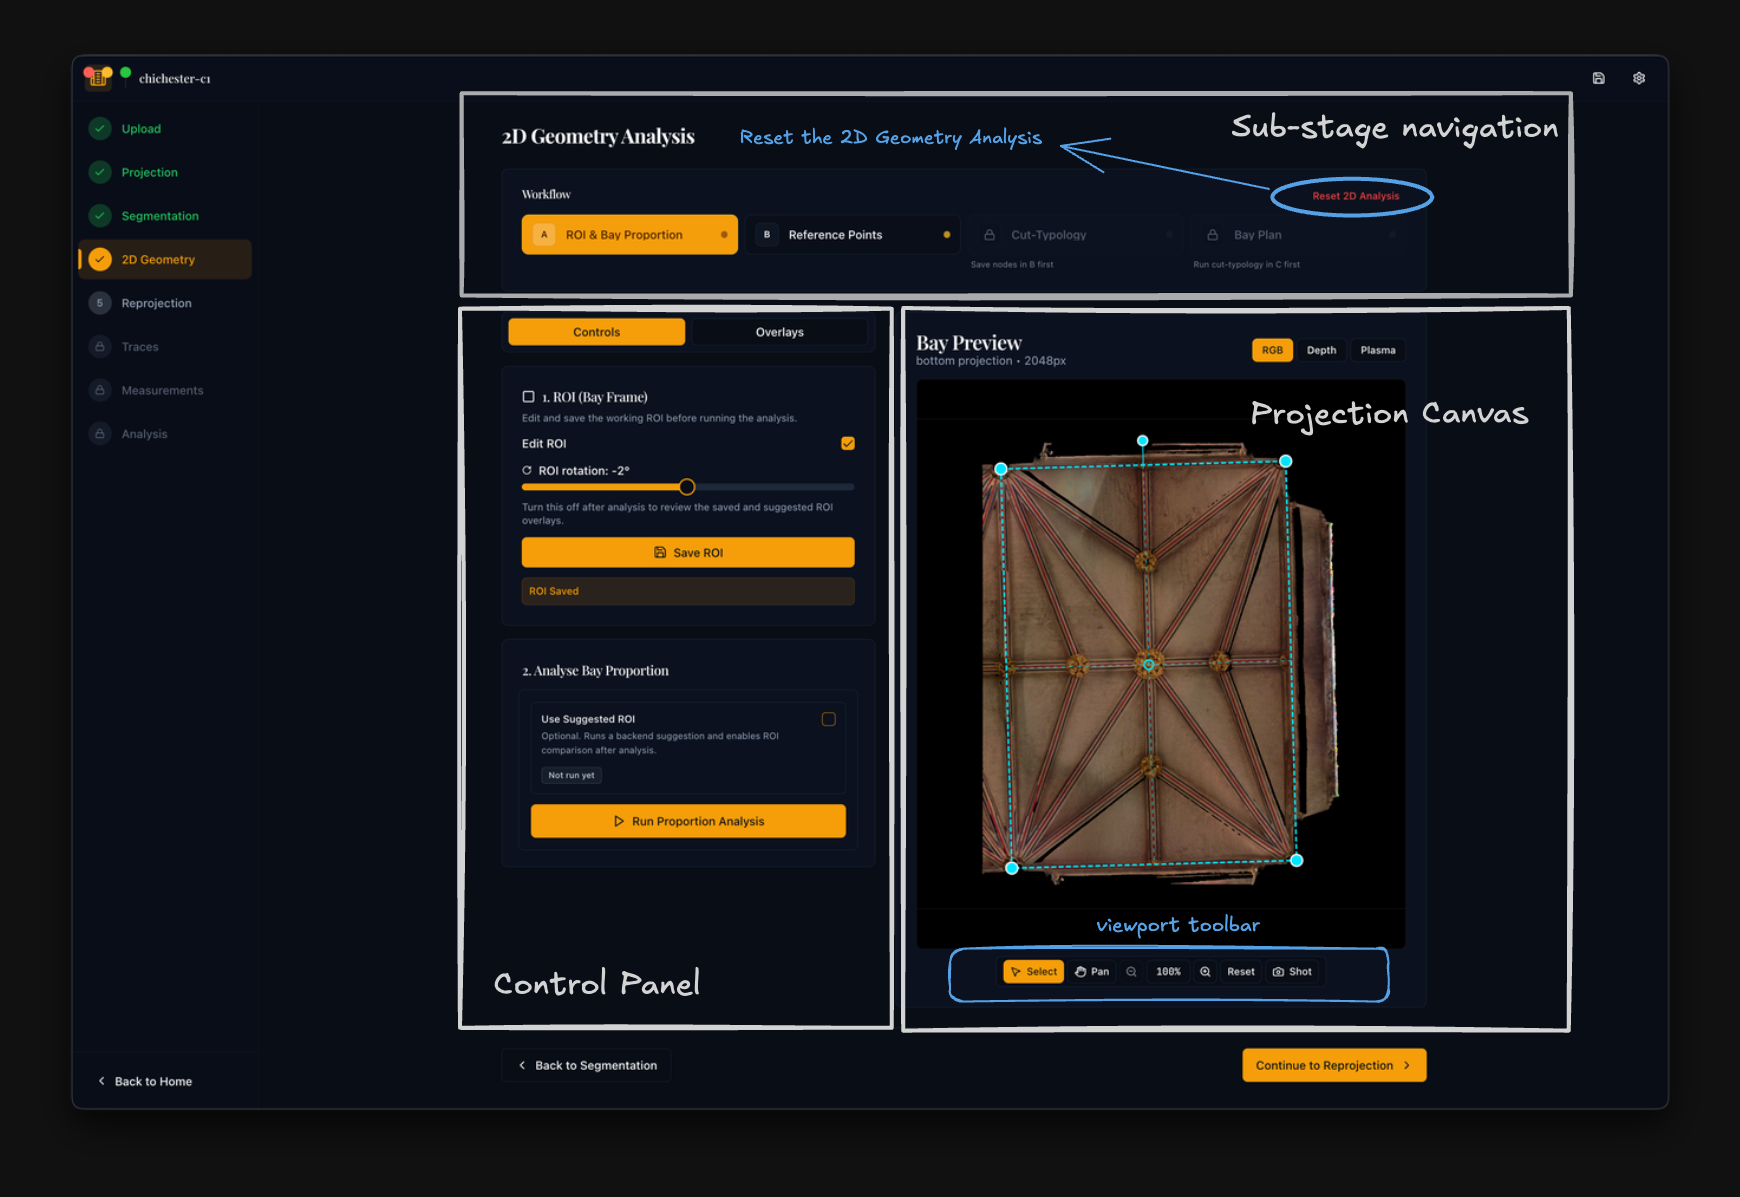
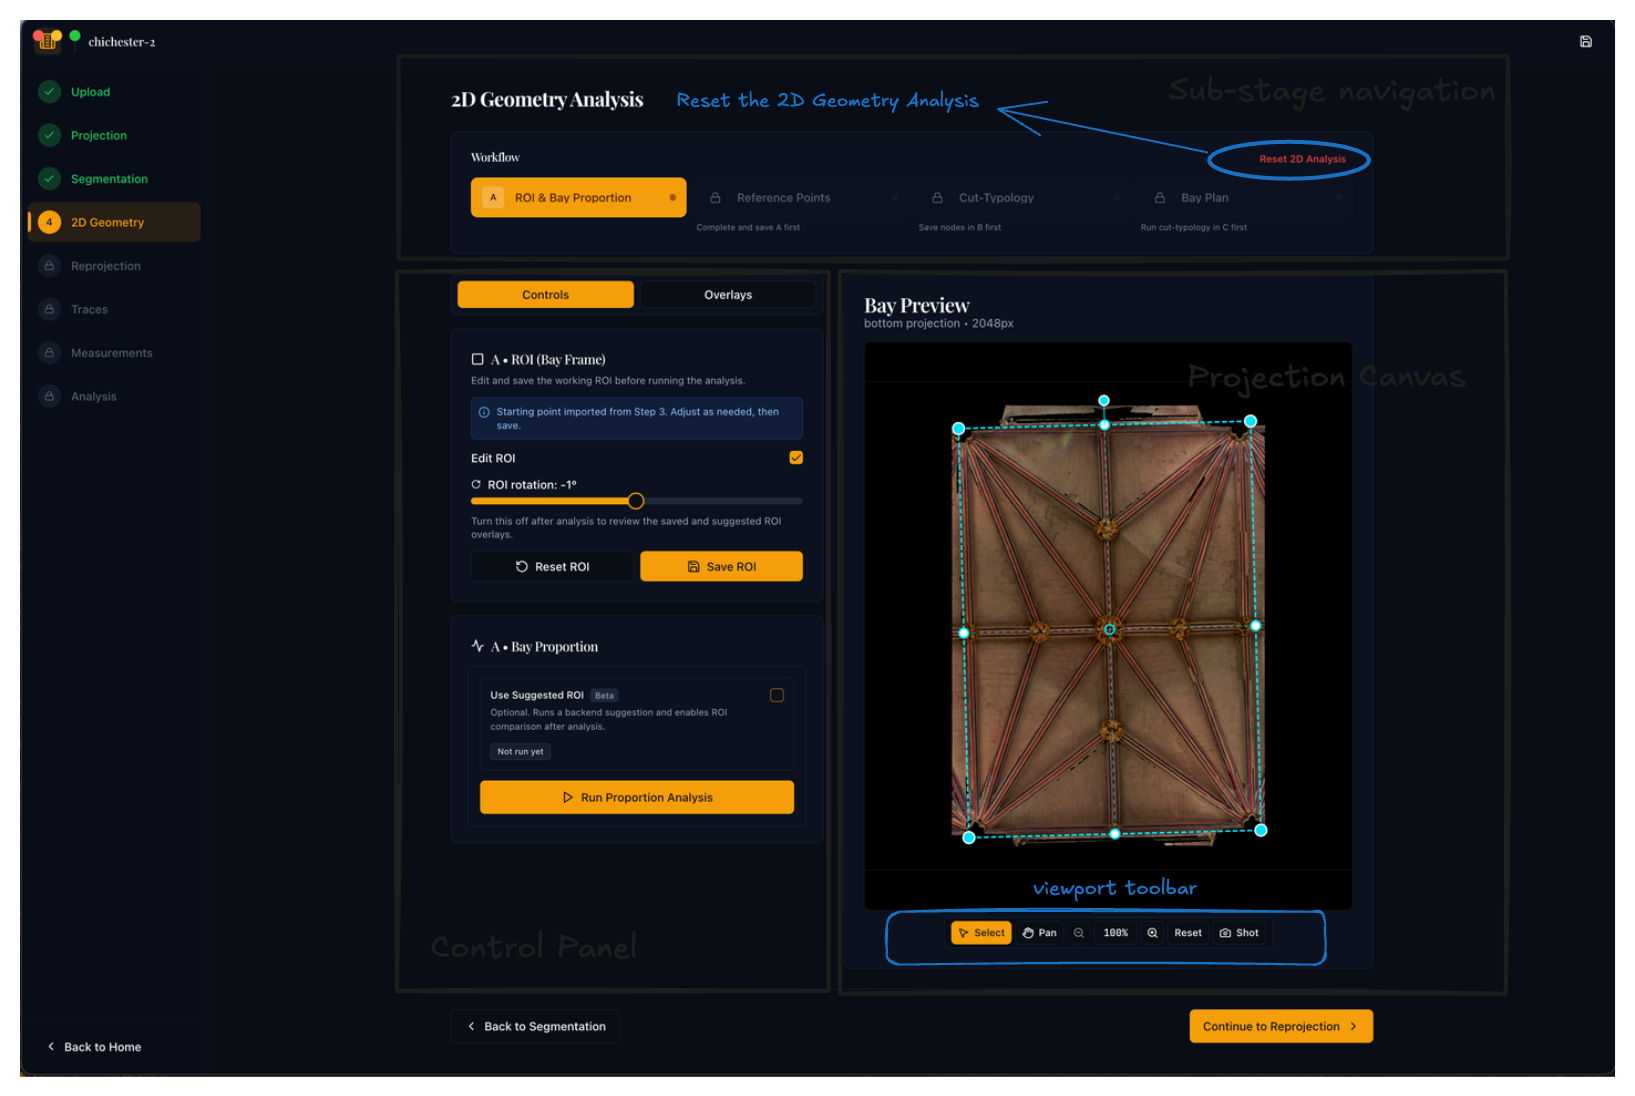
fix-windows-build

Changed region(s): [[0.0, 0.0, 1.0, 1.0]]

diff --git a/backend/routers/project.py b/backend/routers/project.py
@@ -571,7 +571,7 @@ async def save_project(request: ProjectSaveRequest):
         
         # Save segmentations index
         seg_index_path = seg_dir / "index.json"
-        with open(seg_index_path, "w") as f:
+        with open(seg_index_path, "w", encoding="utf-8") as f:
             json.dump({
                 "segmentations": segmentation_refs,
                 "groups": group_summary,
@@ -623,7 +623,7 @@ async def save_project(request: ProjectSaveRequest):
         proj_dir = project_dir / "projections"
         proj_dir.mkdir(exist_ok=True)
         proj_index_path = proj_dir / "index.json"
-        with open(proj_index_path, "w") as f:
+        with open(proj_index_path, "w", encoding="utf-8") as f:
             json.dump({
                 "projections": projection_refs,
                 "totalCount": len(projection_refs),
@@ -656,7 +656,7 @@ async def save_project(request: ProjectSaveRequest):
         }
         
         # Save project.json
-        with open(project_path, "w") as f:
+        with open(project_path, "w", encoding="utf-8") as f:
             json.dump(project_data, f, indent=2)
         
         print(f"[OK] Project saved: {request.projectId}")
@@ -714,7 +714,7 @@ async def save_progress(request: SaveProgressRequest):
         project_data["updatedAt"] = datetime.now().isoformat()
         
         # Save updated project.json
-        with open(project_path, "w") as f:
+        with open(project_path, "w", encoding="utf-8") as f:
             json.dump(project_data, f, indent=2)
         
         print(f"[OK] Progress saved: step {request.currentStep}, {len(request.steps)} completed steps")
@@ -969,7 +969,7 @@ async def save_measurement_config(project_id: str, config: MeasurementConfig):
         project_data["measurementConfig"] = normalized
         project_data["updatedAt"] = datetime.now().isoformat()
 
-        with open(project_path, "w") as f:
+        with open(project_path, "w", encoding="utf-8") as f:
             json.dump(project_data, f, indent=2)
 
         return MeasurementConfigResponse(success=True, data=MeasurementConfig(**normalized))
@@ -1010,13 +1010,13 @@ async def save_step7b_summary(project_id: str, summary: Step7bSummarySnapshot):
         summary_path = _get_step7b_summary_path(project_dir)
         summary_path.parent.mkdir(parents=True, exist_ok=True)
 
-        with open(summary_path, "w") as f:
+        with open(summary_path, "w", encoding="utf-8") as f:
             json.dump(summary.dict(), f, indent=2)
 
         with open(project_path, "r") as f:
             project_data = json.load(f)
         project_data["updatedAt"] = datetime.now().isoformat()
-        with open(project_path, "w") as f:
+        with open(project_path, "w", encoding="utf-8") as f:
             json.dump(project_data, f, indent=2)
 
         return Step7bSummaryResponse(success=True, data=summary)
@@ -1375,7 +1375,7 @@ async def save_roi(request: SaveROIRequest):
                 kept_segmentations.append(seg)
 
         if ribs_deleted:
-            print(f"  → Permanently deleted {ribs_deleted} rib segmentation(s) outside ROI")
+            print(f"  Deleted {ribs_deleted} rib segmentation(s) outside ROI")
             segmentations = kept_segmentations
 
         inside_count = sum(1 for s in segmentations if s.get("insideRoi", False))
@@ -1394,11 +1394,11 @@ async def save_roi(request: SaveROIRequest):
         index_data["groups"] = groups
         
         # Save updated index
-        with open(seg_index_path, "w") as f:
+        with open(seg_index_path, "w", encoding="utf-8") as f:
             json.dump(index_data, f, indent=2)
         
-        print(f"✓ Saved ROI: ({request.roi.x:.1f}, {request.roi.y:.1f}) {request.roi.width:.1f}x{request.roi.height:.1f} @ {request.roi.rotation:.1f}°")
-        print(f"  → {inside_count} masks inside ROI, {outside_count} outside, {ribs_deleted} rib(s) permanently removed")
+        print(f"Saved ROI: ({request.roi.x:.1f}, {request.roi.y:.1f}) {request.roi.width:.1f}x{request.roi.height:.1f} @ {request.roi.rotation:.1f} deg")
+        print(f"  {inside_count} masks inside ROI, {outside_count} outside, {ribs_deleted} rib(s) permanently removed")
         
         return {
             "success": True,
@@ -2008,7 +2008,7 @@ async def trace_intrados(request: IntradosTraceRequest):
             "totalLines": len(lines),
             "totalRibs": len(rib_segmentations),
         }
-        with open(intrados_path, "w") as f:
+        with open(intrados_path, "w", encoding="utf-8") as f:
             json.dump(intrados_data, f, indent=2)
         
         print(f"[OK] Traced {len(lines)} intrados lines from {len(rib_segmentations)} ribs")
@@ -2759,7 +2759,7 @@ async def import_3dm_traces(project_id: str, request: Import3dmRequest):
             traces_dir.mkdir(parents=True, exist_ok=True)
             
             imported_traces_path = traces_dir / "imported_traces.json"
-            with open(imported_traces_path, "w") as f:
+            with open(imported_traces_path, "w", encoding="utf-8") as f:
                 json.dump({
                     "source": request.filePath,
                     "curves": result["curves"],

diff --git a/backend/services/e57_exporter.py b/backend/services/e57_exporter.py
@@ -51,7 +51,7 @@ class E57Exporter:
         
         if not HAS_PYE57:
             # Create placeholder if pye57 not available
-            output_file.write_text("E57 export placeholder - pye57 not installed")
+            output_file.write_text("E57 export placeholder - pye57 not installed", encoding="utf-8")
             return str(output_file)
         
         try:
@@ -106,7 +106,7 @@ class E57Exporter:
             e57.close()
         except Exception as e:
             # If E57 creation fails, create a text placeholder
-            output_path.write_text(f"E57 export failed: {e}")
+            output_path.write_text(f"E57 export failed: {e}", encoding="utf-8")
     
     async def export_annotations_only(
         self,
@@ -126,6 +126,6 @@ class E57Exporter:
             "data": {},  # Would contain actual annotation data
         }
         
-        output_file.write_text(json.dumps(annotations, indent=2))
+        output_file.write_text(json.dumps(annotations, indent=2), encoding="utf-8")
         
         return str(output_file)

diff --git a/backend/services/intrados_tracer.py b/backend/services/intrados_tracer.py
@@ -454,7 +454,7 @@ def bridge_rib_intrados_through_boss_stones(
         boss_pts = e57_points[in_mask]
 
         if len(boss_pts) < 10:
-            print(f"  Bridge: skipping boss {boss_id[:8]} — only {len(boss_pts)} pts")
+            print(f"  Bridge: skipping boss {boss_id[:8]} - only {len(boss_pts)} pts")
             continue
 
         boss_centroid_3d = boss_pts.mean(axis=0)
@@ -491,10 +491,10 @@ def bridge_rib_intrados_through_boss_stones(
                 })
 
         if len(near) < 2:
-            print(f"  Bridge: boss {boss_id[:8]} — only {len(near)} endpoints nearby, skipping")
+            print(f"  Bridge: boss {boss_id[:8]} - only {len(near)} endpoints nearby, skipping")
             continue
 
-        print(f"  Bridge: boss {boss_id[:8]} — {len(near)} rib endpoints within {proximity_threshold}m")
+        print(f"  Bridge: boss {boss_id[:8]} - {len(near)} rib endpoints within {proximity_threshold}m")
 
         # ── Pair ribs that approach from approximately opposite sides ────
         used: set = set()

diff --git a/backend/services/projection_gaussian_utils.py b/backend/services/projection_gaussian_utils.py
@@ -409,7 +409,7 @@ def save_projection_gaussian(
     
     # Save metadata
     metadata_path = folder / f"{projection_id}_metadata.json"
-    with open(metadata_path, "w") as f:
+    with open(metadata_path, "w", encoding="utf-8") as f:
         json.dump(metadata, f, indent=2)
     paths["metadata"] = str(metadata_path)
     

diff --git a/backend/services/reprojection.py b/backend/services/reprojection.py
@@ -50,7 +50,7 @@ class ReprojectionService:
         output_file.parent.mkdir(parents=True, exist_ok=True)
         
         # Create a placeholder file
-        output_file.write_text("E57 reprojection placeholder")
+        output_file.write_text("E57 reprojection placeholder", encoding="utf-8")
         
         return str(output_file)
     